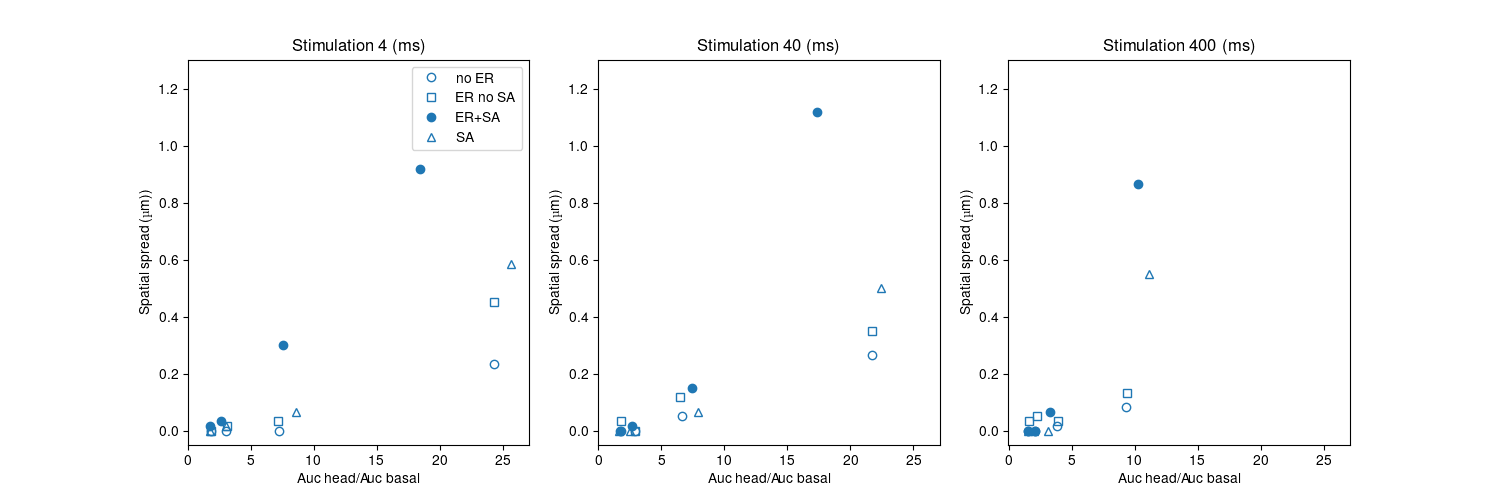
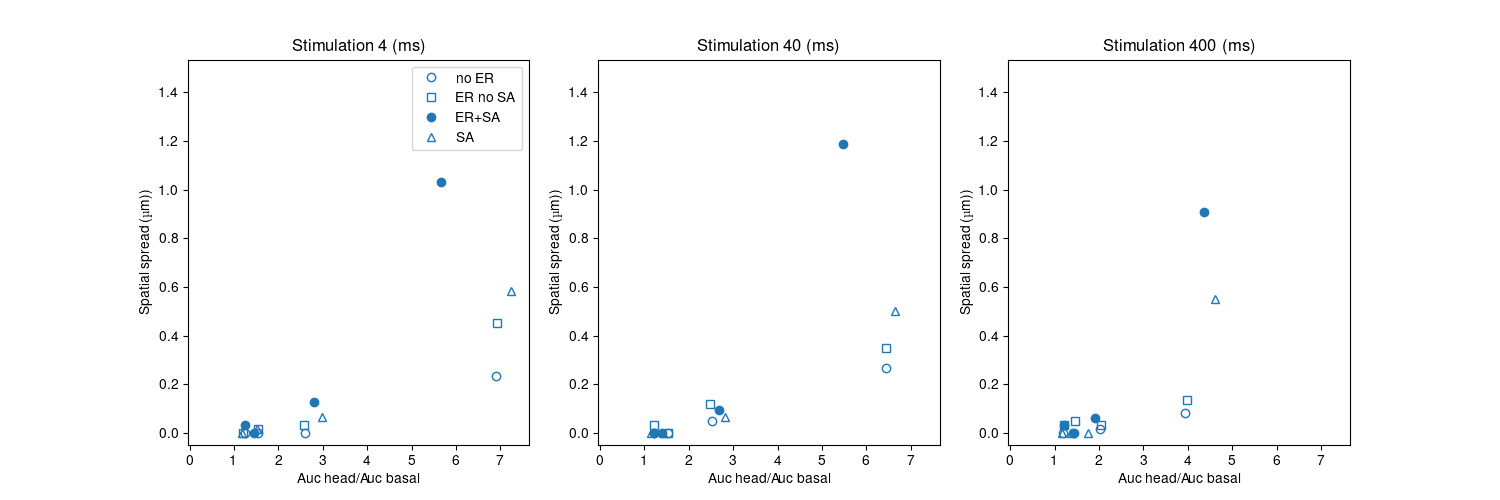
Update figures

diff --git a/scripts/spatial_spread_ER_no_ER.py b/scripts/spatial_spread_ER_no_ER.py
@@ -38,7 +38,7 @@ region_list = ["dend01", "dend02", "dend03", "dend04", "dend05", "dend06", "dend
                "dend21"]
 spine_idx = 21
 if __name__ == '__main__':
-    rollo = True
+    rollo = False
     dirs = [file_no_ER_ctrl, file_dend_ER_ctrl, file_spine_ER_dend_ER, file_spine_ER_no_dend_ER]
     fig = utils.make_distance_figs(dirs, stim_dict, output, types, markers,
                        fillstyles, length=42, spine_idx=21, t_init=t_init)
